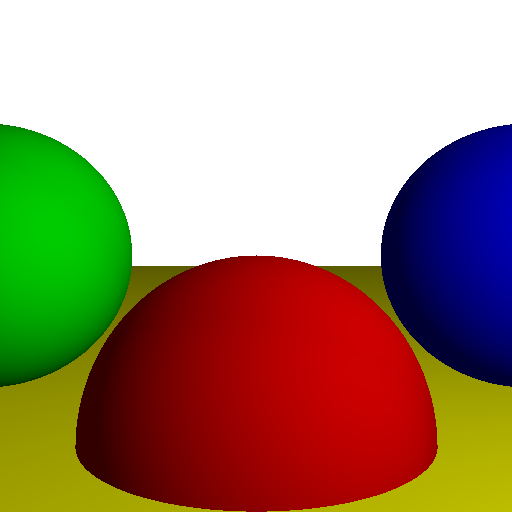
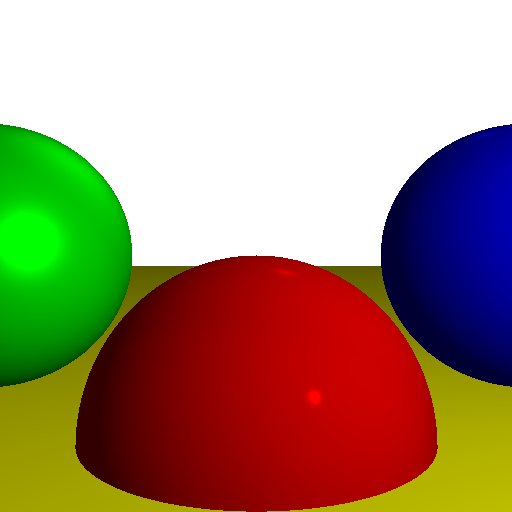
specular reflections

Changed region(s): [[0.0, 0.375, 0.125, 0.5625], [0.0312, 0.25, 0.2188, 0.4062], [0.5938, 0.75, 0.625, 0.8125]]

diff --git a/src/main.rs b/src/main.rs
@@ -20,6 +20,7 @@ struct Sphere {
     center: (f64, f64, f64),
     radius: f64,
     color: (u8, u8, u8),
+    specular: f64,
 }
 
 struct Texture {
@@ -89,21 +90,25 @@ pub fn main() {
                 center: (0.0, -1.0, 3.0),
                 radius: 1.0,
                 color: (255, 0, 0), // Red
+                specular: 500.0,    // Shiny
             },
             Sphere {
                 center: (2.0, 0.0, 4.0),
                 radius: 1.0,
                 color: (0, 0, 255), // Blue
+                specular: 500.0,    // Shiny
             },
             Sphere {
                 center: (-2.0, 0.0, 4.0),
                 radius: 1.0,
                 color: (0, 255, 0), // Green
+                specular: 10.0,     // Somewhat shiny
             },
             Sphere {
                 color: (255, 255, 0), // Yellow
                 center: (0.0, -5001.0, 0.0),
                 radius: 5000.0,
+                specular: 1000.0, // Very shiny
             },
         ],
         lights: vec![
@@ -172,10 +177,10 @@ fn trace_ray(scene: &Scene, d: (f64, f64, f64), t_min: f64, t_max: f64) -> (u8, 
         None => BACKGROUND_COLOR,
         Some(sphere) => {
             let p = add(o, mul_tuple(d, closest_t)); // Compute intersection
-            let n = sub(p, sphere.center); // Compute sphere normal at intersection
-            let n = div_tuple(n, length(n)); // Normalize
+            let mut n = sub(p, sphere.center); // Compute sphere normal at intersection
+            n = div_tuple(n, length(n)); // Normalize
 
-            let lighting = compute_lighting(scene, p, n);
+            let lighting = compute_lighting(scene, p, n, sub((0.0, 0.0, 0.0), d), sphere.specular);
             let (r, g, b) = sphere.color;
 
             (
@@ -255,40 +260,56 @@ fn intersect_ray_sphere(o: (f64, f64, f64), d: (f64, f64, f64), sphere: &Sphere)
     }
 }
 
-fn compute_lighting(scene: &Scene, p: (f64, f64, f64), n: (f64, f64, f64)) -> f64 {
+fn compute_lighting(
+    scene: &Scene,
+    p: (f64, f64, f64),
+    n: (f64, f64, f64),
+    v: (f64, f64, f64),
+    specular: f64,
+) -> f64 {
     let mut i = 0.0;
 
     for light in &scene.lights {
-        match light {
+        let (intensity, l) = match light {
             Light::Ambient { intensity } => {
                 i += intensity;
+                continue;
             }
             Light::Point {
                 intensity,
                 position,
-            } => {
-                let l = sub(*position, p);
-                let n_dot_l = dot(n, l);
-
-                if n_dot_l > 0.0 {
-                    i += intensity * n_dot_l / (length(n) * length(l))
-                }
-            }
+            } => (intensity, sub(*position, p)),
             Light::Directional {
                 intensity,
                 direction,
-            } => {
-                let l = direction;
-                let n_dot_l = dot(n, *l);
+            } => (intensity, *direction),
+        };
 
-                if n_dot_l > 0.0 {
-                    i += intensity * n_dot_l / (length(n) * length(*l))
-                }
+        // Diffuse
+        let n_dot_l = dot(n, l);
+
+        if n_dot_l > 0.0 {
+            i += intensity * n_dot_l / (length(n) * length(l))
+        }
+
+        // Specular
+        if specular != -1.0 {
+            let r = sub(mul_tuple(n, 2.0 * dot(n, l)), l);
+            let r_dot_v = dot(r, v);
+
+            if r_dot_v > 0.0 {
+                i += intensity * (r_dot_v / (length(r) * length(v))).powf(specular);
             }
         }
     }
 
-    i
+    if i < 0.0 {
+        0.0
+    } else if i > 1.0 {
+        1.0
+    } else {
+        i
+    }
 }
 
 fn canvas_to_viewport(
